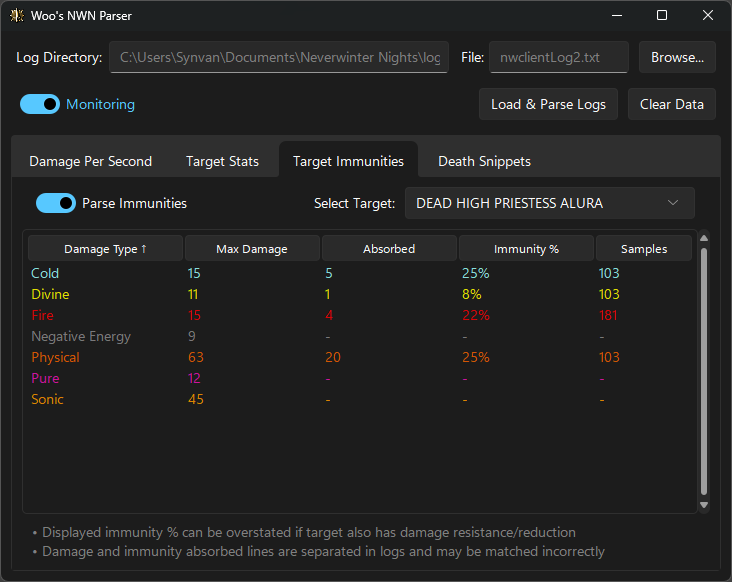
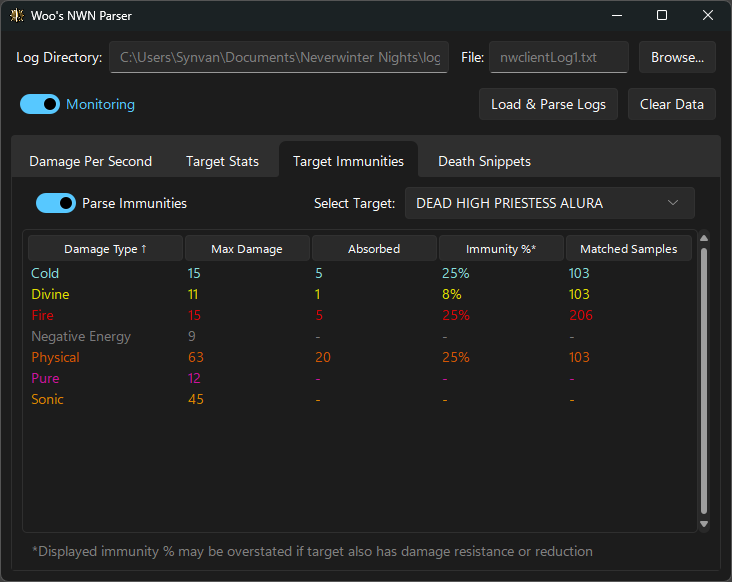
chore: minor version bump and release prep

diff --git a/app/__init__.py b/app/__init__.py
@@ -12,7 +12,7 @@ Main modules:
     - utils: Utility functions for file processing
 """
 
-__version__ = "1.5.0"
+__version__ = "1.6.0"
 __author__ = "Synvan"
 
 from .constants import DAMAGE_TYPE_PALETTE

diff --git a/docs/releases/v1.6.0.md b/docs/releases/v1.6.0.md
@@ -1,0 +1,42 @@
+### Description
+
+A tool for analyzing Neverwinter Nights combat logs with DPS calculations and detailed combat statistics – see [README](https://github.com/synvanalt/woos-nwn-parser/blob/main/README.md) for more information.
+
+### Download
+
+**One file approach:**
+- Simply one file, but more prone to false-positive AV flags 
+- Download `WoosNwnParser.exe` below and run it
+
+**One directory approach:**
+- Directory with many files, less false-positive AV flags
+- Download `WoosNwnParser.zip` below, extract everything to a local directory
+- Run `WoosNwnParser.exe`
+
+_Windows may show a SmartScreen warning because this is a new application, click "More info" → "Run anyway" to proceed. This is normal for new and unsigned apps._
+
+### Security Scan
+
+**One file approach** – VirusTotal: [2/72 vendors flagged](https://www.virustotal.com/gui/file/2be0dd7280fac0aec0ab878263c9fc100bb652158cfc2e984dcddace6f6efa55)
+
+**One directory approach** – VirusTotal: [2/72 vendors flagged](https://www.virustotal.com/gui/file/a94c11a49a1d9ab7541883188da6c82230265df942f12fc2bd3e232c8f27e57b)
+
+_These are false positives common with unsigned Python executables, detections are generic ML-based flags and not specific malware signatures. Source code is available for inspection._
+
+### System Requirements
+
+- Windows 10/11
+- No installation required - just run the exe
+
+### Changelog
+
+#### Changed
+- `Parse Immunities` now starts ON by default 
+- The app now remembers your `Parse Immunities` setting between launches
+
+#### Fixed
+- `Target Immunities` now matches immunity lines correctly whether they appear before or after the related damage line during live monitoring and file import
+- `Target Immunities` now preserves matched zero-damage samples, showing `0` max damage, the absorbed value, and `100%` immunity when a hit is fully negated
+- `Target Immunities` now breaks ties between matched samples by absorbed value when the recorded max damage is the same
+- `Target Immunities` now shows the closest immunity percentage estimate when no exact reverse-calculation match exists, instead of leaving the percentage blank
+- Turning `Parse Immunities` off now skips more of the immunity-matching workload during live monitoring and file import, reducing overhead when you want the lighter mode

diff --git a/CHANGELOG.md b/CHANGELOG.md
@@ -1,16 +1,16 @@
 # Changelog
 
-## [Unreleased]
+## [1.6.0] - 2026-03-14
 
 ### Changed
 - `Parse Immunities` now starts ON by default
+- The app now remembers your `Parse Immunities` setting between launches
 
 ### Fixed
 - `Target Immunities` now matches immunity lines correctly whether they appear before or after the related damage line during live monitoring and file import
 - `Target Immunities` now preserves matched zero-damage samples, showing `0` max damage, the absorbed value, and `100%` immunity when a hit is fully negated
 - `Target Immunities` now breaks ties between matched samples by absorbed value when the recorded max damage is the same
 - `Target Immunities` now shows the closest immunity percentage estimate when no exact reverse-calculation match exists, instead of leaving the percentage blank
-- The app now remembers your `Parse Immunities` setting between launches
 - Turning `Parse Immunities` off now skips more of the immunity-matching workload during live monitoring and file import, reducing overhead when you want the lighter mode
 
 
